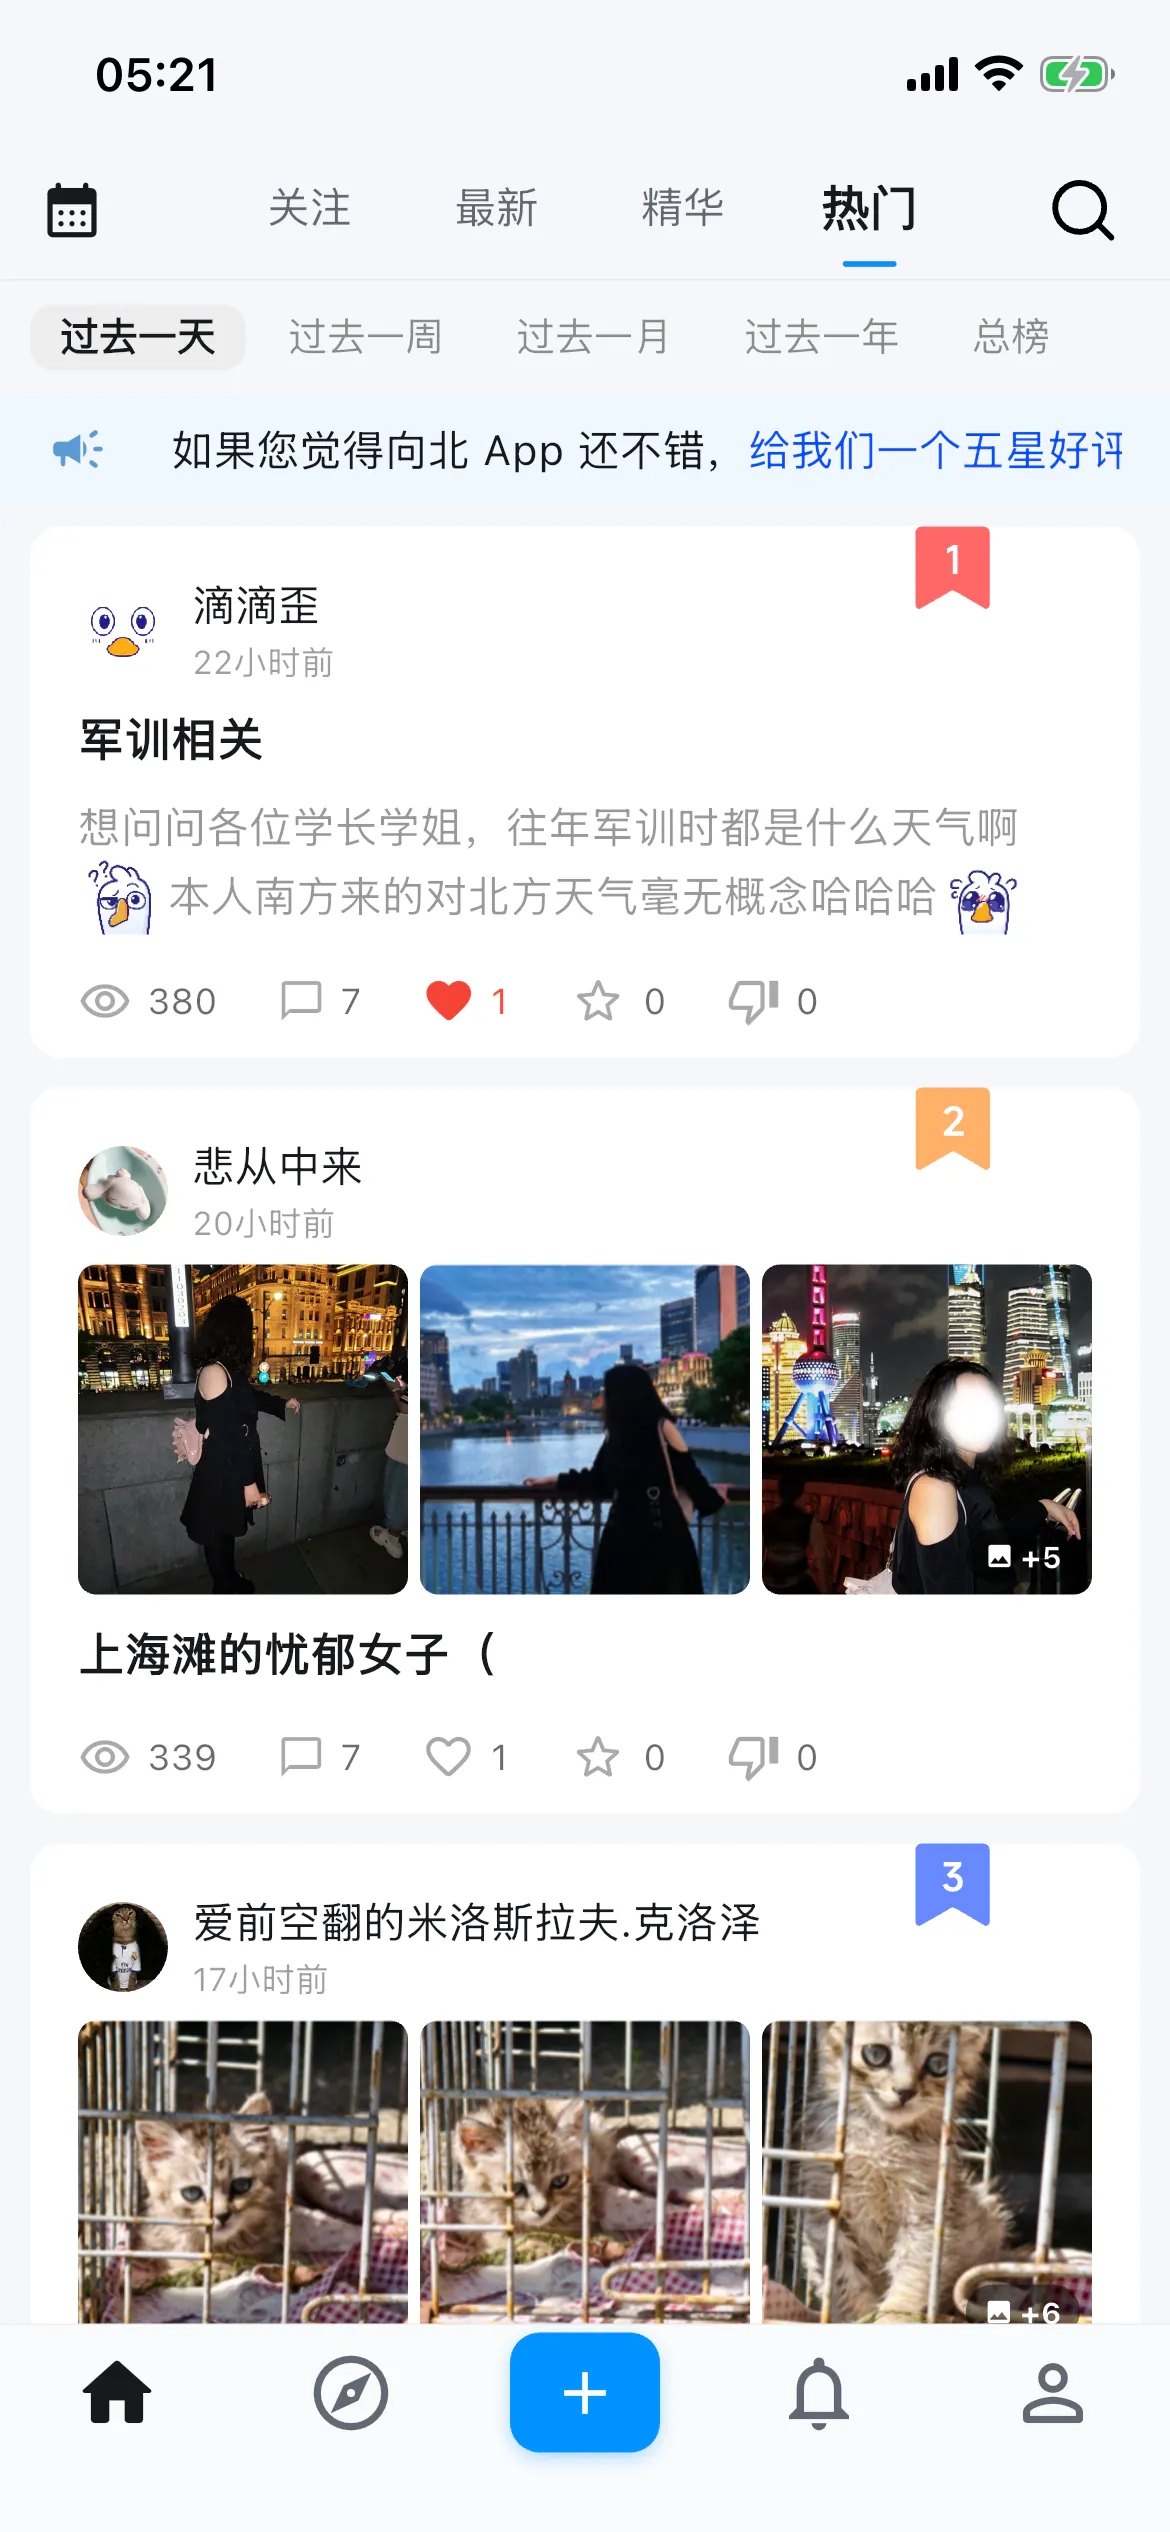
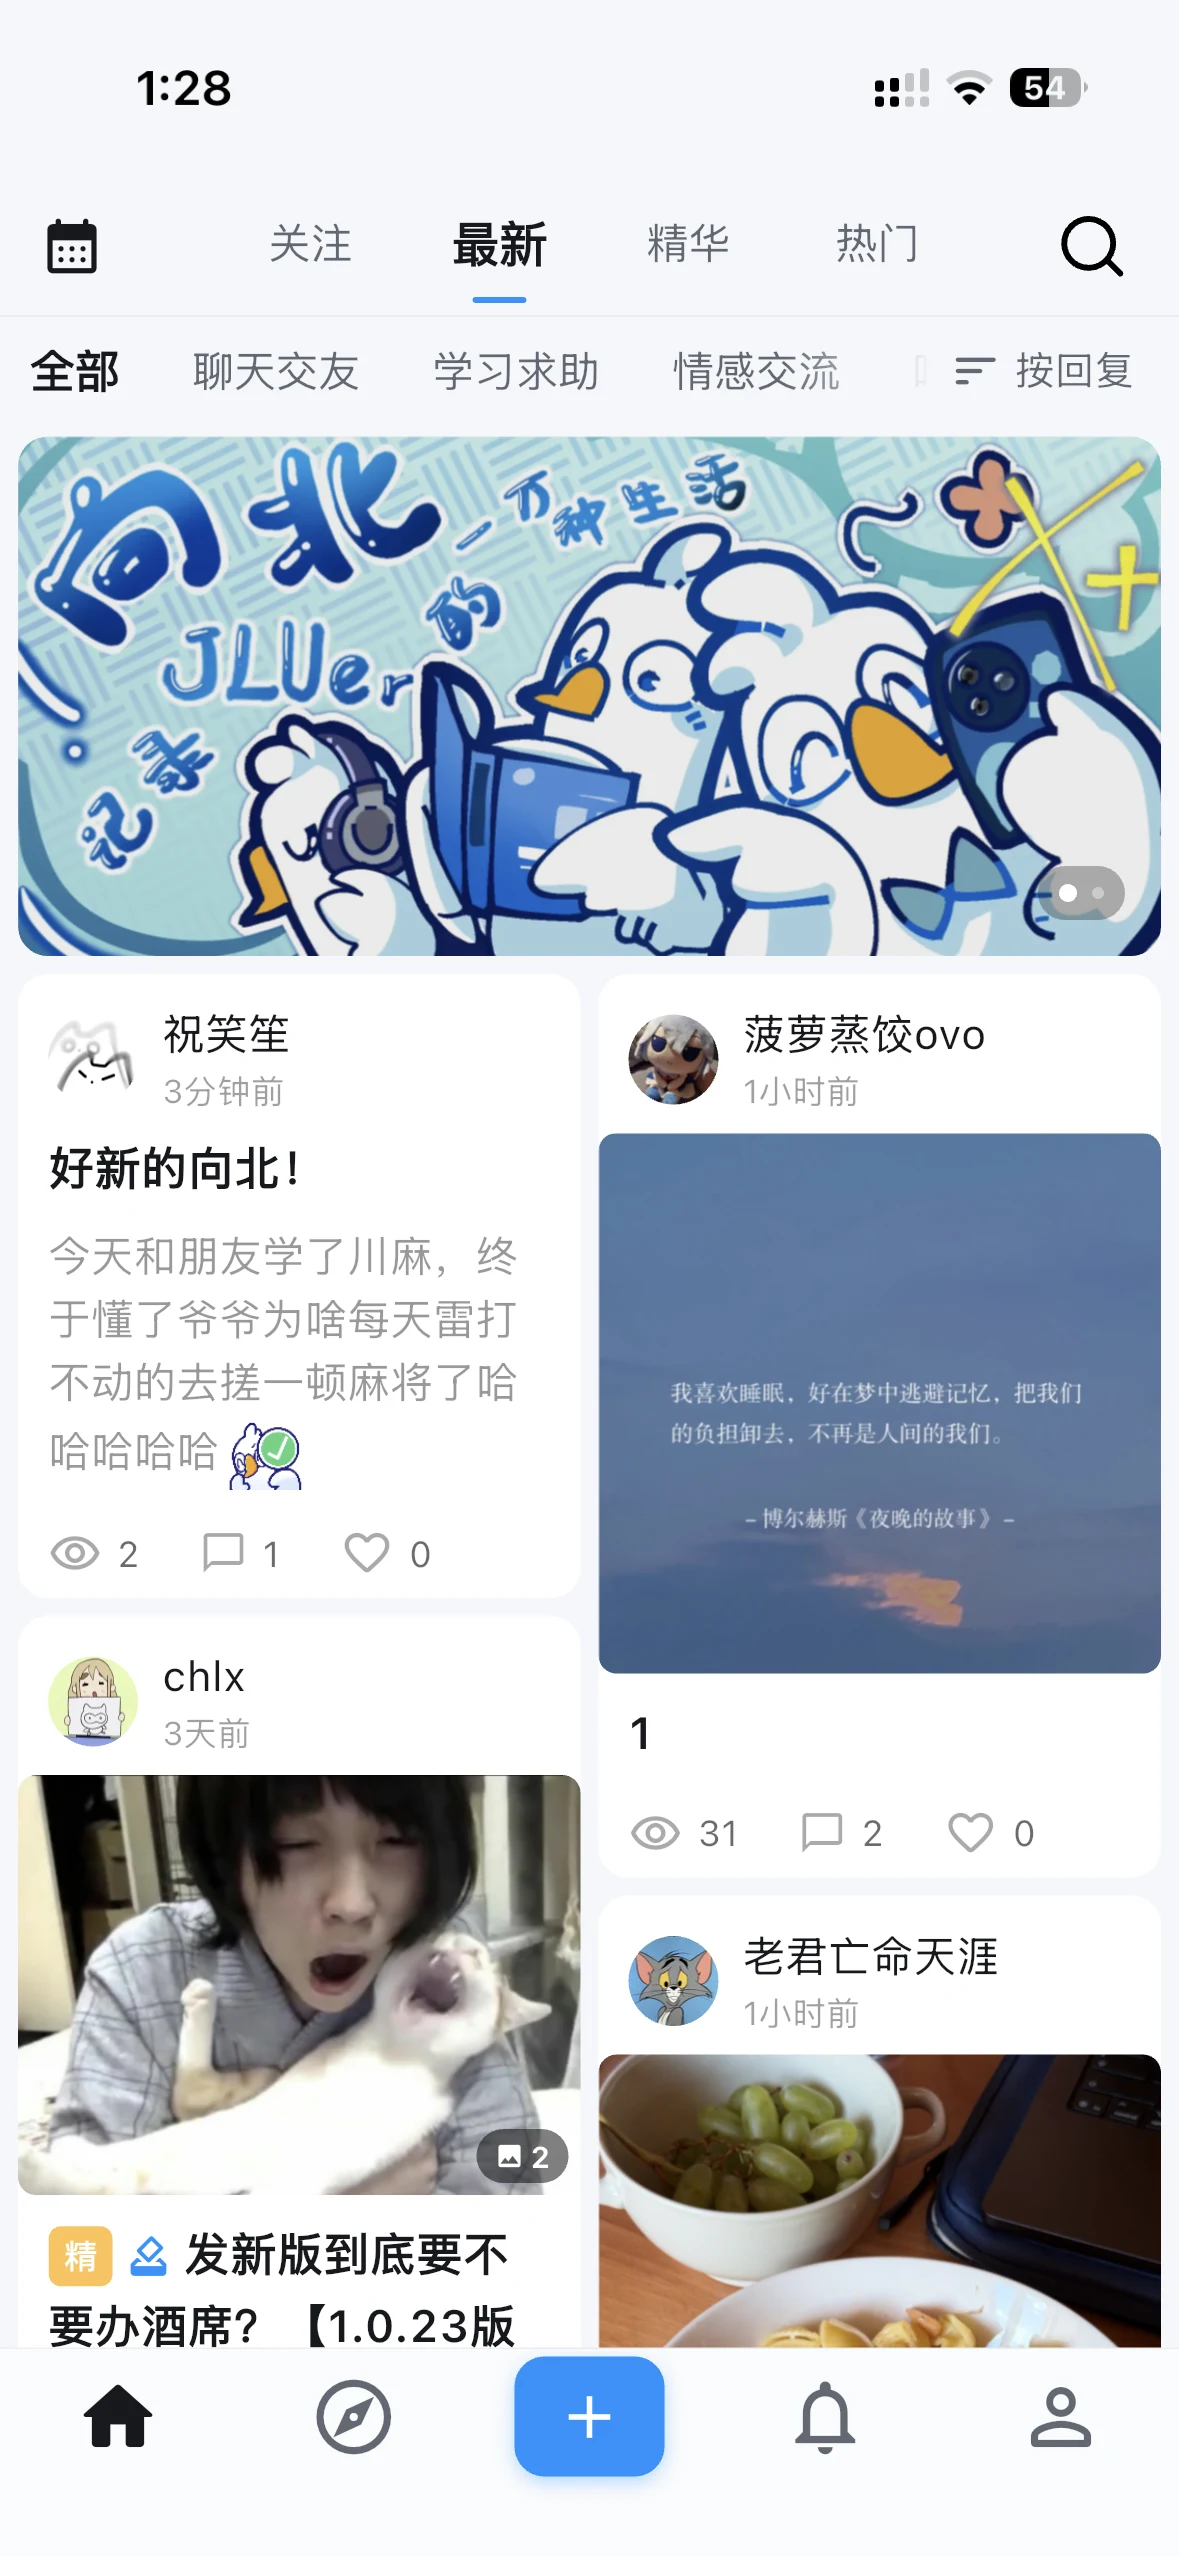
refactor: simplify CommentBarrage component and update screenshot paths

diff --git a/src/components/ui/CommentBarrage.tsx b/src/components/ui/CommentBarrage.tsx
@@ -18,11 +18,7 @@ const rowMotion = [
 	{ top: "87%", duration: 76 },
 ] as const;
 
-interface CommentBarrageProps {
-	variant?: "background" | "mobile";
-}
-
-const CommentBarrage = ({ variant = "background" }: CommentBarrageProps) => {
+const CommentBarrage = () => {
 	const containerRef = useRef<HTMLDivElement>(null);
 	const [isActive, setIsActive] = useState(false);
 
@@ -48,63 +44,18 @@ const CommentBarrage = ({ variant = "background" }: CommentBarrageProps) => {
 		};
 	}, []);
 
-	if (variant === "mobile") {
-		const comments = barrageRows[3];
-
-		return (
-			<div
-				ref={containerRef}
-				className="pointer-events-none relative left-1/2 mt-7 h-6 w-screen -translate-x-1/2 overflow-hidden sm:hidden"
-				aria-hidden="true"
-			>
-				<div className="absolute inset-0 [mask-image:linear-gradient(to_right,transparent,black_12%,black_88%,transparent)]">
-					<div
-						style={
-							{
-								"--barrage-duration": "56s",
-								animationPlayState: isActive ? "running" : "paused",
-							} as CSSProperties
-						}
-						className="barrage-track flex w-max min-w-max transform-gpu will-change-transform"
-					>
-						{[0, 1].map((copy) => (
-							<div
-								key={copy}
-								className="flex min-w-[100vw] shrink-0 items-center gap-5 pr-5 text-xs leading-6 text-neutral-500 dark:text-neutral-400"
-							>
-								{comments.map(([username, content]) => (
-									<span
-										key={`${copy}-${username}-${content}`}
-										className="shrink-0 whitespace-nowrap"
-									>
-										<span className="mr-1.5 font-medium text-neutral-600 dark:text-neutral-300">
-											@{username}
-										</span>
-										{content}
-									</span>
-								))}
-							</div>
-						))}
-					</div>
-				</div>
-			</div>
-		);
-	}
-
 	return (
 		<div
 			ref={containerRef}
-			className="pointer-events-none absolute inset-0 z-0 hidden overflow-hidden sm:block"
+			className="pointer-events-none absolute inset-x-0 top-0 z-0 h-[100svh] overflow-hidden sm:inset-0 sm:h-auto"
 			aria-hidden="true"
 		>
-			<div className="absolute inset-0 opacity-30 [mask-image:linear-gradient(to_bottom,transparent_2%,black_13%,black_88%,transparent_100%)] sm:opacity-[0.38] dark:opacity-25 sm:dark:opacity-30">
-				<div className="absolute inset-0 [mask-image:radial-gradient(ellipse_65%_30%_at_50%_27%,transparent_0%,transparent_70%,black_100%)] lg:[mask-image:radial-gradient(ellipse_30%_40%_at_27%_53%,transparent_0%,transparent_70%,black_100%)]">
+			<div className="absolute inset-0 opacity-[0.34] [mask-image:linear-gradient(to_bottom,transparent_2%,black_10%,black_92%,transparent_100%)] sm:opacity-[0.38] dark:opacity-30">
+				<div className="absolute inset-0 [mask-image:radial-gradient(ellipse_58%_27%_at_50%_31%,transparent_0%,transparent_66%,black_100%)] sm:[mask-image:radial-gradient(ellipse_65%_30%_at_50%_27%,transparent_0%,transparent_70%,black_100%)] lg:[mask-image:radial-gradient(ellipse_30%_40%_at_27%_53%,transparent_0%,transparent_70%,black_100%)]">
 					{barrageRows.map((comments, rowIndex) => (
 						<div
 							key={rowMotion[rowIndex].top}
-							className={`absolute inset-x-0 overflow-visible ${
-								rowIndex === 1 || rowIndex === 4 ? "hidden sm:block" : "block"
-							}`}
+							className="absolute inset-x-0 overflow-visible"
 							style={{ top: rowMotion[rowIndex].top }}
 						>
 							<div
@@ -124,7 +75,7 @@ const CommentBarrage = ({ variant = "background" }: CommentBarrageProps) => {
 										{comments.map(([username, content], commentIndex) => (
 											<div
 												key={`${copy}-${username}-${content}`}
-												className="flex h-10 shrink-0 items-center gap-2 rounded-full border border-black/[0.055] bg-white/90 px-3.5 py-1.5 text-[11px] font-medium text-neutral-600 shadow-[0_8px_28px_rgba(15,23,42,0.055)] sm:h-11 sm:gap-2.5 sm:px-4 sm:text-xs dark:border-white/[0.07] dark:bg-neutral-900/85 dark:text-neutral-300 dark:shadow-[0_8px_28px_rgba(0,0,0,0.12)]"
+												className="flex h-9 shrink-0 items-center gap-2 rounded-full border border-black/[0.055] bg-white/80 px-3 py-1.5 text-[10px] font-medium text-neutral-600 shadow-[0_8px_28px_rgba(15,23,42,0.055)] sm:h-11 sm:gap-2.5 sm:bg-white/90 sm:px-4 sm:text-xs dark:border-white/[0.08] dark:bg-neutral-900/75 dark:text-neutral-300 dark:shadow-[0_8px_28px_rgba(0,0,0,0.12)] sm:dark:bg-neutral-900/85"
 											>
 												<span
 													className={`shrink-0 text-[10px] font-semibold sm:text-[11px] ${

diff --git a/src/components/sections/LandingPage.tsx b/src/components/sections/LandingPage.tsx
@@ -463,7 +463,6 @@ const LandingPage = ({
 							>
 								认识校园，表达自己，找到同路的人。有问题来求助，有生活来分享，有体验来点评，汇聚万千吉大声音
 							</motion.p>
-							<CommentBarrage variant="mobile" />
 							<motion.div
 								initial={reduceMotion ? { opacity: 1 } : { opacity: 0, y: 20 }}
 								animate={{ opacity: 1, y: 0 }}
@@ -517,7 +516,7 @@ const LandingPage = ({
 									aria-hidden="true"
 								/>
 								<Phone
-									src="/screenshots/home.webp"
+									src="/screenshots/hero/left.webp"
 									alt="向北 App 左侧校园广场界面"
 									width={1170}
 									height={2532}
@@ -525,7 +524,7 @@ const LandingPage = ({
 									className="absolute left-[4%] top-[15%] z-10 w-[38%] rotate-[-9deg]"
 								/>
 								<Phone
-									src="/screenshots/hot.webp"
+									src="/screenshots/hero/center.webp"
 									alt="向北 App 中间实时热点界面"
 									width={1170}
 									height={2532}
@@ -533,7 +532,7 @@ const LandingPage = ({
 									className="absolute left-1/2 top-[2%] z-30 w-[44%] -translate-x-1/2"
 								/>
 								<Phone
-									src="/screenshots/square.webp"
+									src="/screenshots/hero/right.webp"
 									alt="向北 App 右侧工具箱界面"
 									width={1170}
 									height={2532}

diff --git a/src/config/barrage.ts b/src/config/barrage.ts
@@ -17,7 +17,7 @@ export const barrageRows: readonly (readonly BarrageComment[])[] = [
 		["叭叭小猪", "推荐日新楼二楼的轻食窗口"],
 		["菠萝蒸饺", "衣带渐宽终不悔，下课刷向北"] ,
 		["C语言玩家", "听说向北给发对象，是不是真的？"],
-		["青和我椒往🫑", "众里寻他千百度，蓦然回首，那人却在，向北评分处"] ,
+		["青和我椒往🫑", "众里寻他千百度，蓦然回首，那人却在，向北评分处"],
 	],
 	[
 		["魔法乙醚桃子", "下载向北谢谢喵"],
